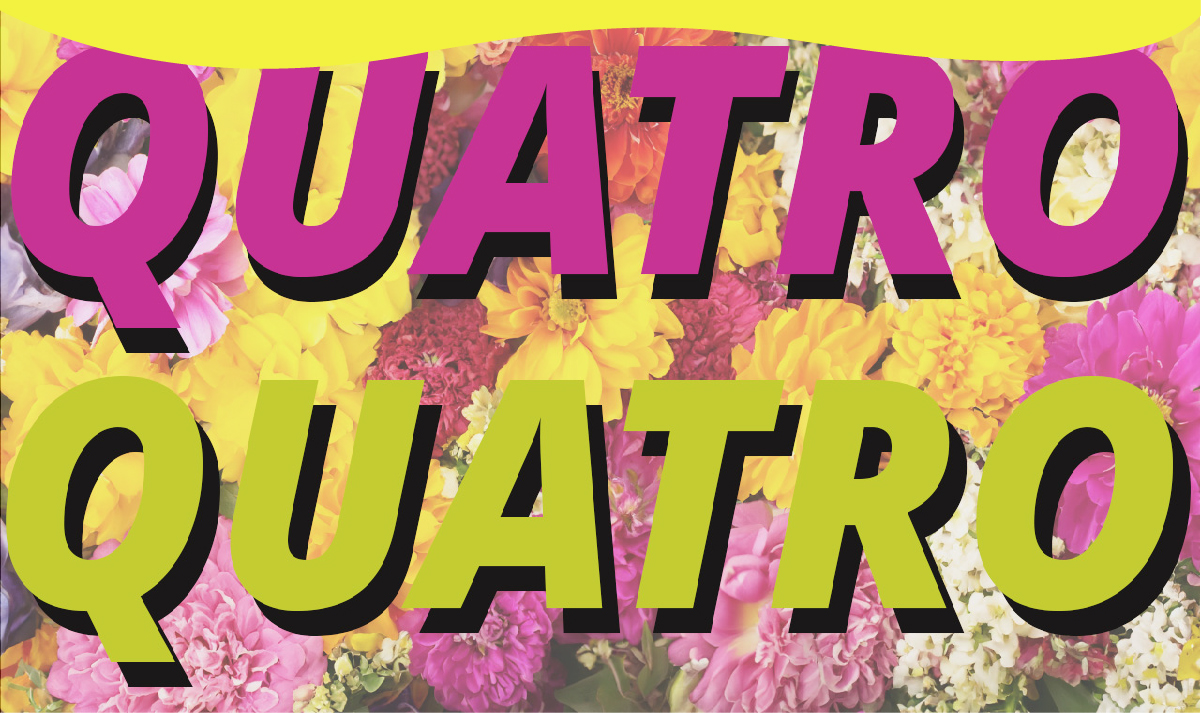
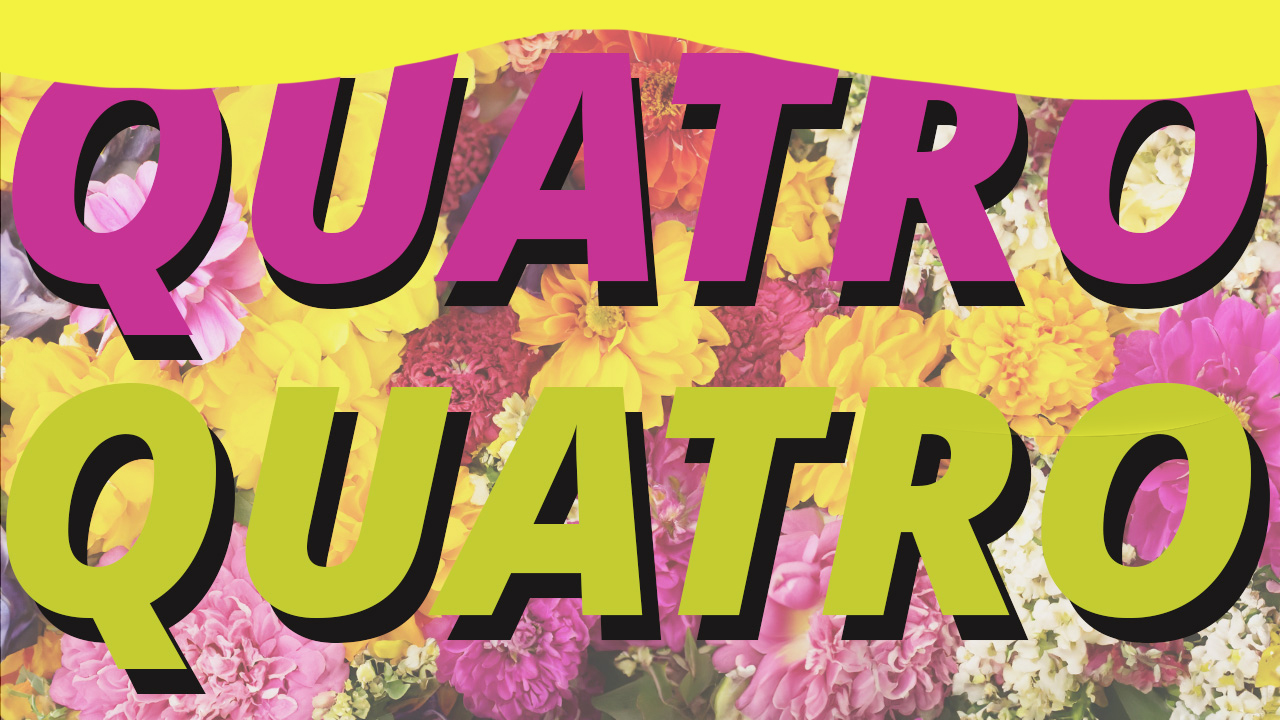
Added images to the Stories page.
Added images to the Stories page.

diff --git a/stoires.html b/stoires.html
@@ -41,7 +41,12 @@
 
 
 <div class="banner">
-
+    <picture>
+        <source media="(max-width: 767px)" srcset="images/stories_header_mobile3.jpg" />
+        <source media="(min-width: 768px)" srcset="images/stories_header_tablet_with_band.jpg" />
+        <source media="(min-width: 1200px)" srcset="images/stories_header_desktop_with_band.jpg" />
+        <img src="images/stories_header_mobile.jpg" alt="QUATRO with flowers behind it" />
+    </picture>
 </div>
 
 <div class="grid-con">
@@ -49,8 +54,12 @@
     <h1 class="stories-header col-span-full">Local Stories</h1>
 
     <div class="local-stories col-span-full m-col-start-2 m-col-end-12">
-        <div>
-        <img src="" alt="">
+        <div class="stories-img">
+            <picture>
+                <source media="(max-width: 1199px)" srcset="images/local-farmer-01-mobile.jpg" />
+                <source media="(min-width: 1200px)" srcset="images/local-farmer01-desktop.jpg" />
+                <img src="images/local-farmer-01-mobile.jpg" alt="Man in a greenhouse." />
+            </picture>
         </div>
         <article>
             <h3>Meet Sam</h3>
@@ -62,8 +71,12 @@
     </div>
 
     <div class= "article-2 local-stories col-span-full m-col-start-2 m-col-end-12">
-        <div>
-        <img src="" alt="">
+        <div class="stories-img">
+            <picture>
+                <source media="(max-width: 1199px)" srcset="images/farmer2-mobile.jpg" />
+                <source media="(min-width: 1200px)" srcset="images/farmer2-desktop.jpg" />
+                <img src="images/farmer2-mobile.jpg" alt="Older woman in a plant field" />
+            </picture>
         </div>
         <article>
             <h3>Introducing Reba,</h3>

diff --git a/css/main.css b/css/main.css
@@ -312,6 +312,7 @@ footer {
    margin: 0 auto;
    padding: 0;
    margin-top: 30px;
+   margin-bottom: 40px;
 }
 
 .social-nav li {
@@ -340,7 +341,9 @@ font-style: normal;
 
  /* Stories */
 
- 
+ picture img {
+   width: 100%;
+ }
 
 .stories-header {
    text-align: center;
@@ -352,10 +355,15 @@ font-style: normal;
 }
 
 .local-stories div {
-   background-color: grey;
-   height: 294px;
+   overflow: hidden;
+   min-height: 214px;
+   max-height: 500px;
    margin: 31px;
 
+}
+
+.stories-img img {
+   width: 100%;
 }
 
 .local-stories span{
